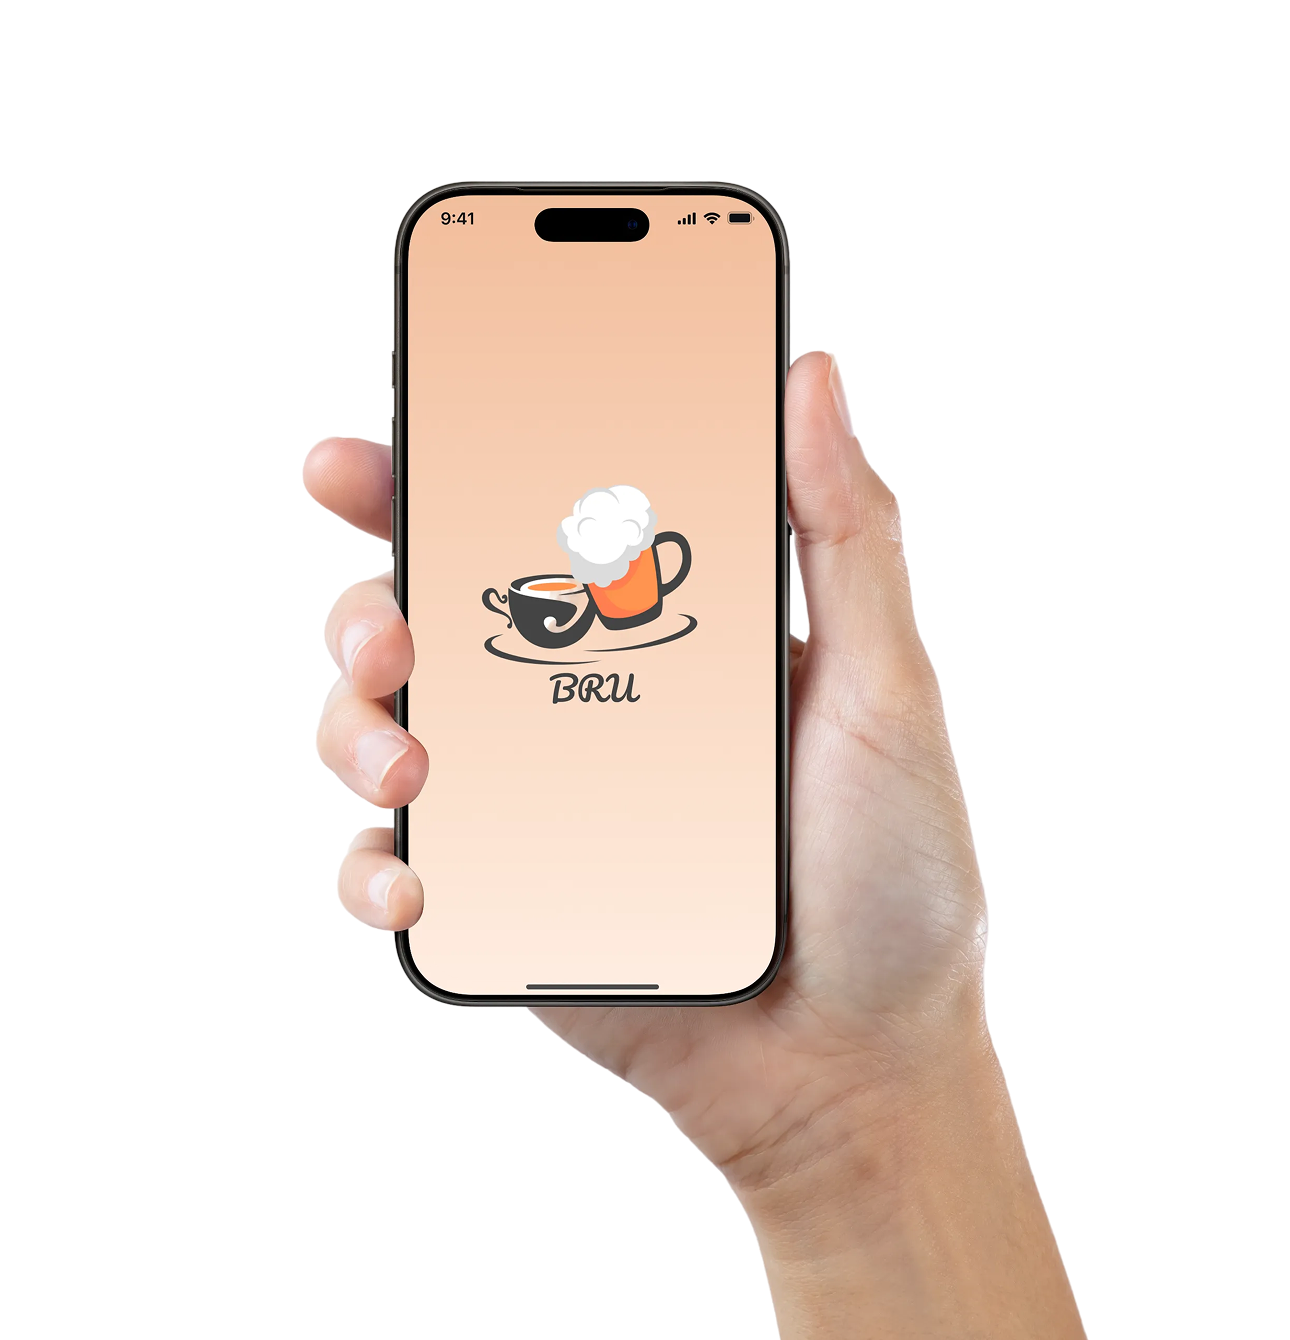
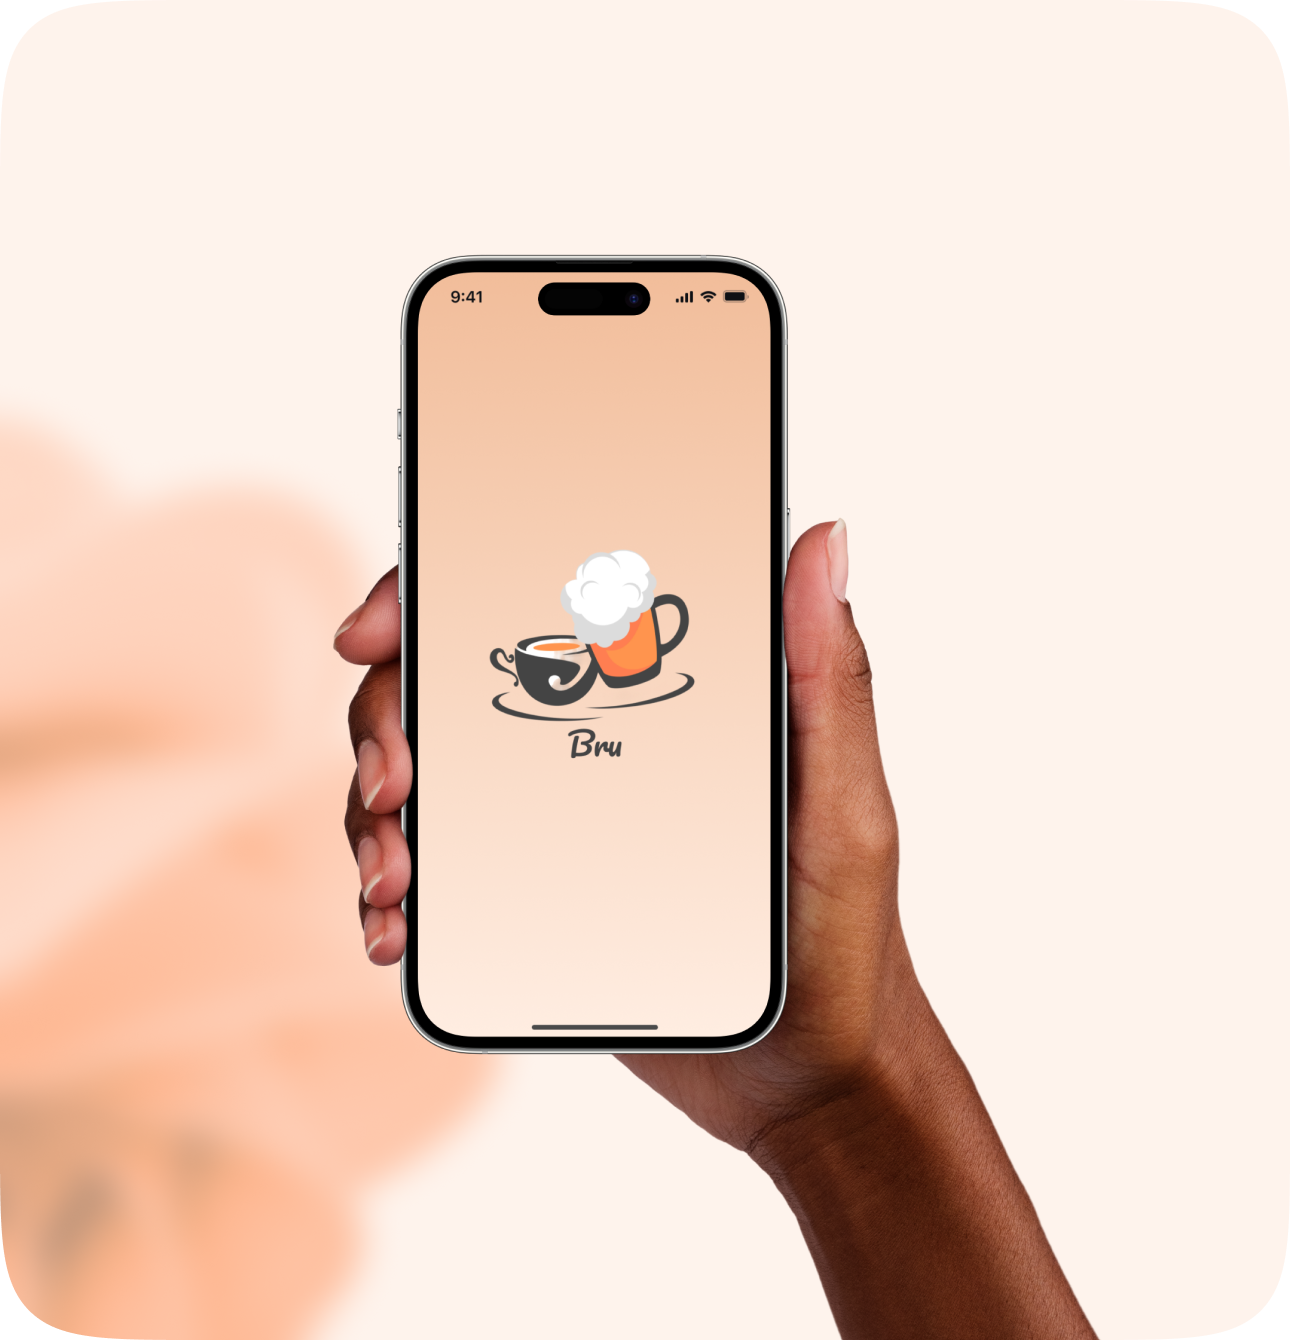
update:push for main

diff --git a/src/pages/sections/RealLifeConnectionsSection.tsx b/src/pages/sections/RealLifeConnectionsSection.tsx
@@ -51,13 +51,13 @@ export const RealLifeConnectionsSection = (): JSX.Element => {
             className="relative mx-auto w-full max-w-[645px] rounded-[36px] bg-[#fee9db80] p-0 backdrop-blur-[10px] backdrop-brightness-[100%] [-webkit-backdrop-filter:blur(10px)_brightness(100%)] sm:rounded-[42px] lg:rounded-[50px]">
             <div className="overflow-hidden rounded-[36px] sm:rounded-[42px] lg:rounded-[50px]">
               <img
-                className=" object-cover w-full h-auto"
+                className=" object-cover "
                 alt="Splash mockup"
                 src="/figmaAssets/mm.png"
               />
             </div>
           </motion.div>
-          <div className="relative z-10  flex flex-col justify-center gap-6 lg:gap-44 h-auto lg:h-[70%] px-3 sm:px-5 mt-6 lg:mt-5 lg:-mt-[62%] lg:absolute lg:left-0 lg:top-0 lg:w-full lg:px-0">
+          <div className="relative z-10  flex flex-col justify-center gap-6 lg:gap-44 h-auto lg:h-[70%] px-3 sm:px-5 mt-6 lg:mt-10 lg:absolute lg:left-0 lg:top-0 lg:w-full lg:px-0">
             {featureCards.map((card, idx) => (
               <motion.div 
                 key={card.title} 

diff --git a/src/pages/sections/Footer.tsx b/src/pages/sections/Footer.tsx
@@ -127,7 +127,7 @@ export const Footer = (): JSX.Element => {
         
         <div className="flex flex-col md:flex-row items-center justify-between gap-6 w-full text-white [font-family:'Montserrat',sans-serif] text-sm sm:text-base font-medium">
           <p className="text-center md:text-left">
-            © 2026 BRU App. All Rights Reserved.
+            © 2026 Bru App. All Rights Reserved.
           </p>
           <div className="flex items-center gap-6">
             <a href="#" className="hover:text-white hover:underline transition-all duration-200">
